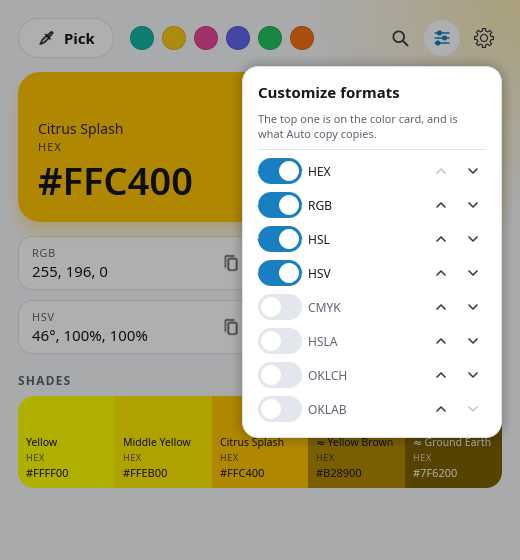
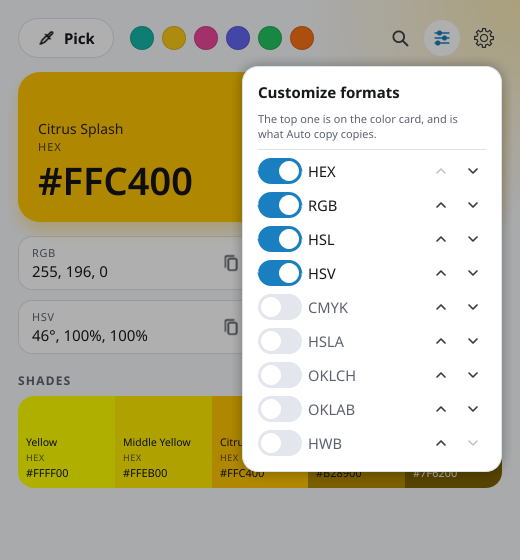
README: HWB and new screenshots

diff --git a/README.md b/README.md
@@ -27,7 +27,7 @@ Wayland and X11 · at home on KDE Plasma · works offline
 | ------------------------------------------------------------------------------------------------------------ | ------------------------------------------------------------------------------------------------------------------------ |
 | **Pixel magnifier**<br>The pixels around your cursor, 10× larger, with the one you'll get outlined. | **Live preview, on Wayland too**<br>The color follows your mouse. On Wayland, Archtoys picks from one frozen screenshot. |
 | **The color card** · new<br>Your first format, big, on the color itself. Click the value to type a new one. | **Color search**<br>Press `Ctrl+F` and type a name, a word like _sky_, or a code like `#FF46A2`. |
-| **Your formats, your order**<br>HEX, RGB, HSL, HSV, CMYK, HSLA, OKLCH and OKLab. Type plain numbers like `255, 70, 162`; copying gives `rgb(255,70,162)`. | **Color names**<br>The CSS name when there is one ("Hot Pink"), otherwise the closest of ~32,000 ("≈ Barbie Pink"). |
+| **Your formats, your order**<br>HEX, RGB, HSL, HSV, CMYK, HSLA, OKLCH, OKLab and HWB. Type plain numbers like `255, 70, 162`; copying gives `rgb(255,70,162)`. | **Color names**<br>The CSS name when there is one ("Hot Pink"), otherwise the closest of ~32,000 ("≈ Barbie Pink"). |
 | **Shades and history**<br>Five shades under the card, each with its value and name, and every color you pick is kept. | **Auto copy**<br>Copies the value on the card the moment you click, without opening the window. |
 | **Global hotkey**<br>`Ctrl+Super+C` from anywhere. On Wayland it uses your desktop's own shortcuts. | **Light, dark or your desktop's theme** · new<br>A faint glow in the corner follows your color, and so does the dot on the tray icon. |
 
@@ -185,6 +185,16 @@ cd Archtoys
 cargo test --locked
 cargo run --release --locked
 ```
+
+On Wayland, the desktop knows an app by its `.desktop` file: without it there is no app icon (a generic "W" instead) and no global shortcut through the desktop. A package installs it; when you run from source with no package installed, add it for your user, pointing at your build:
+
+```bash
+mkdir -p ~/.local/share/applications ~/.local/share/icons/hicolor/256x256/apps
+sed "s|^Exec=.*|Exec=$PWD/target/release/archtoys %u|" packaging/archtoys.desktop > ~/.local/share/applications/archtoys.desktop
+cp packaging/archtoys-256.png ~/.local/share/icons/hicolor/256x256/apps/archtoys.png
+```
+
+Remove both files again before installing a package, or they take its place.
 
 **Project layout**
 
